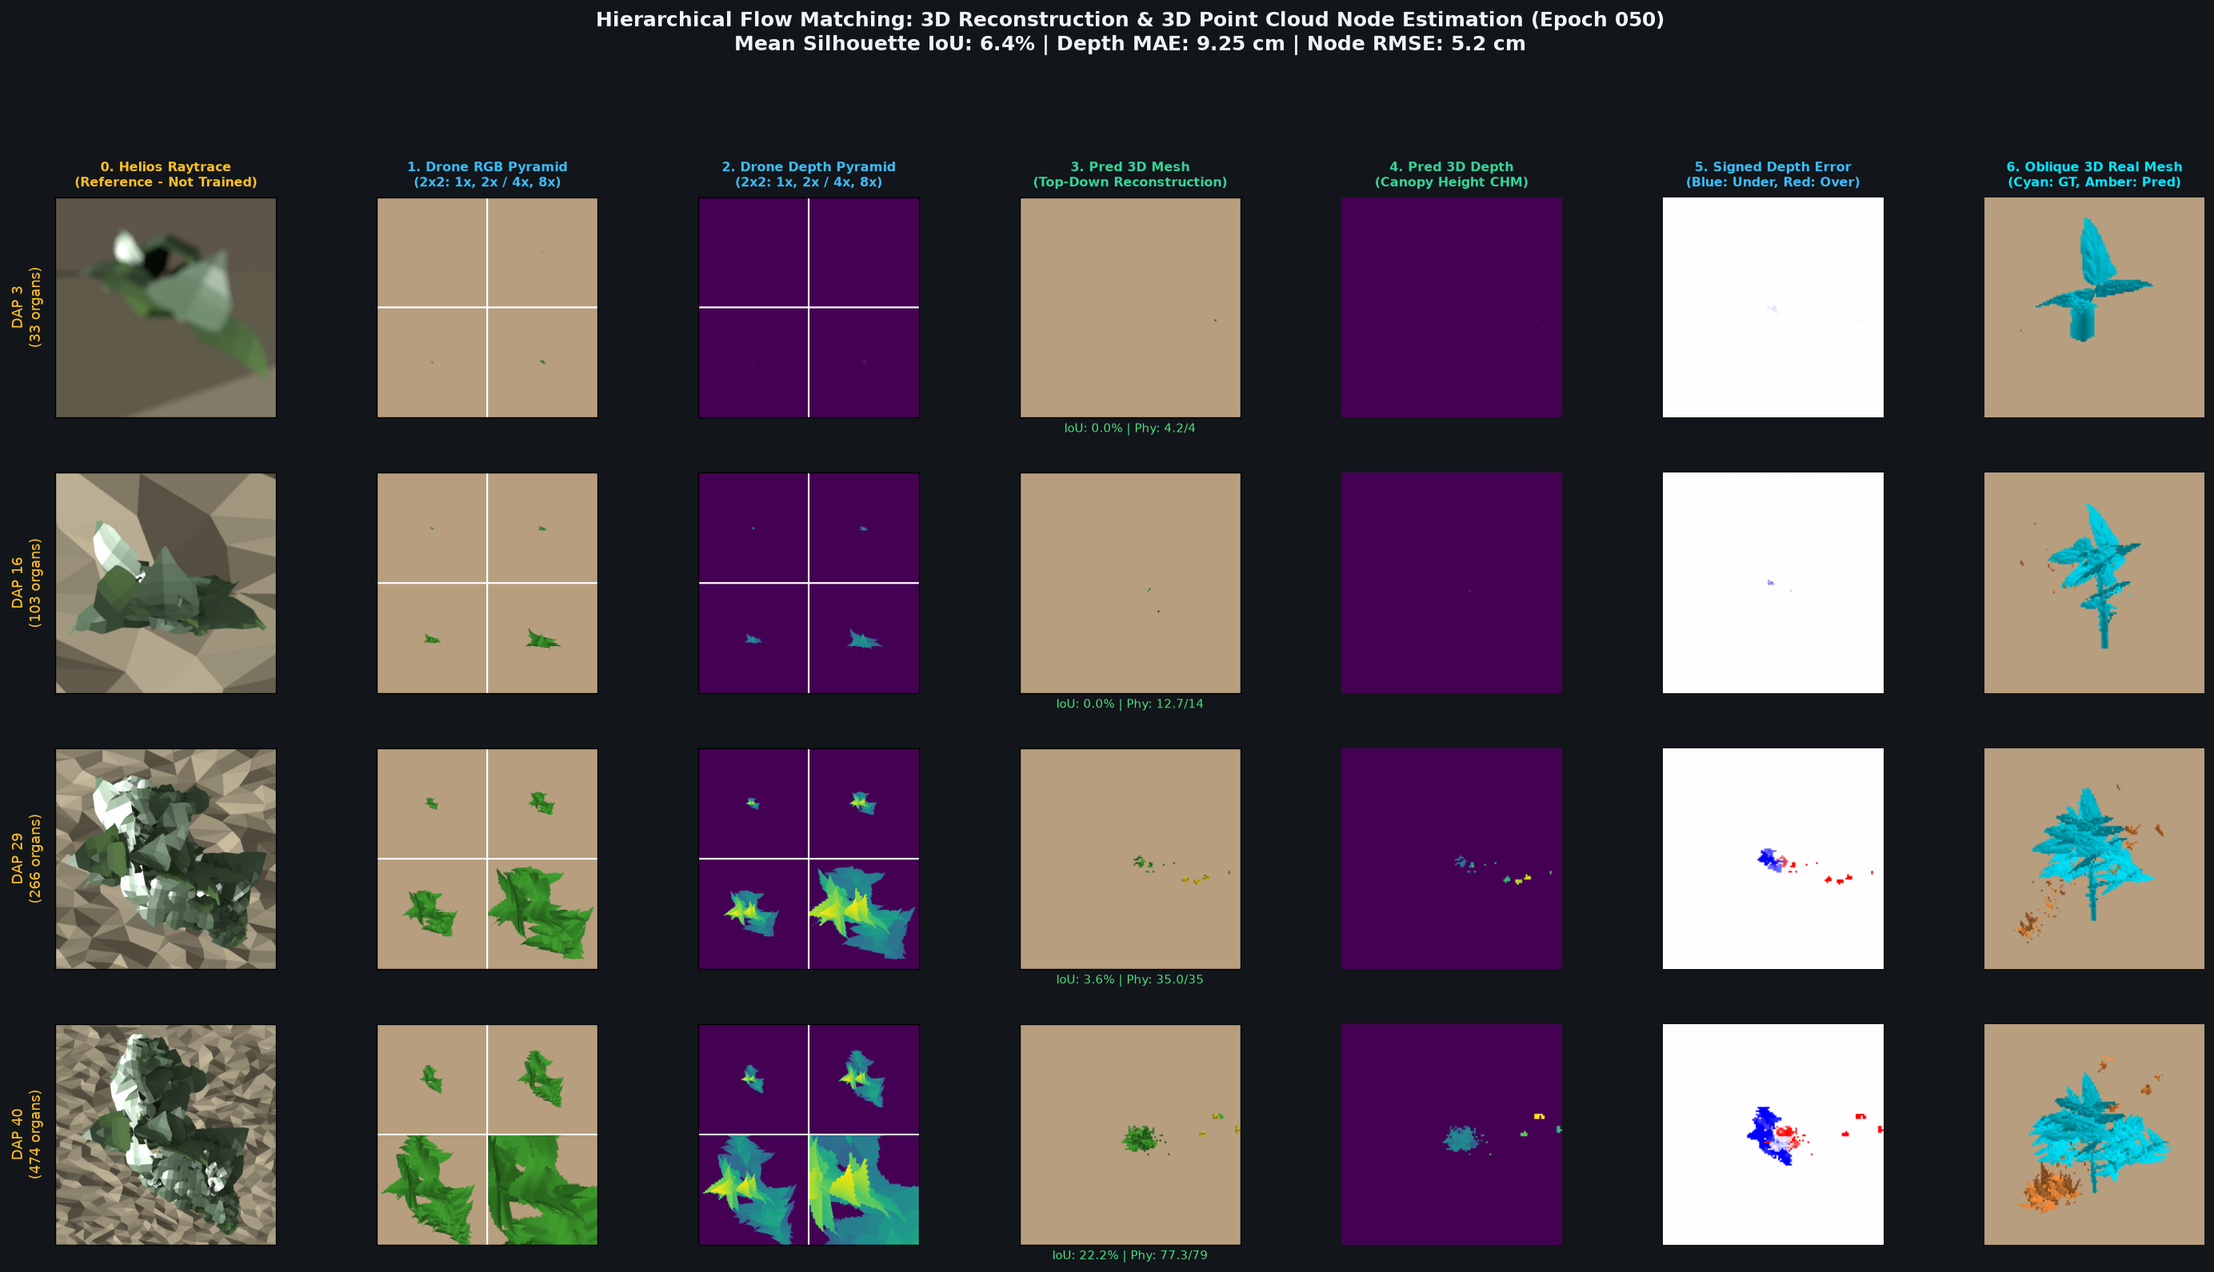
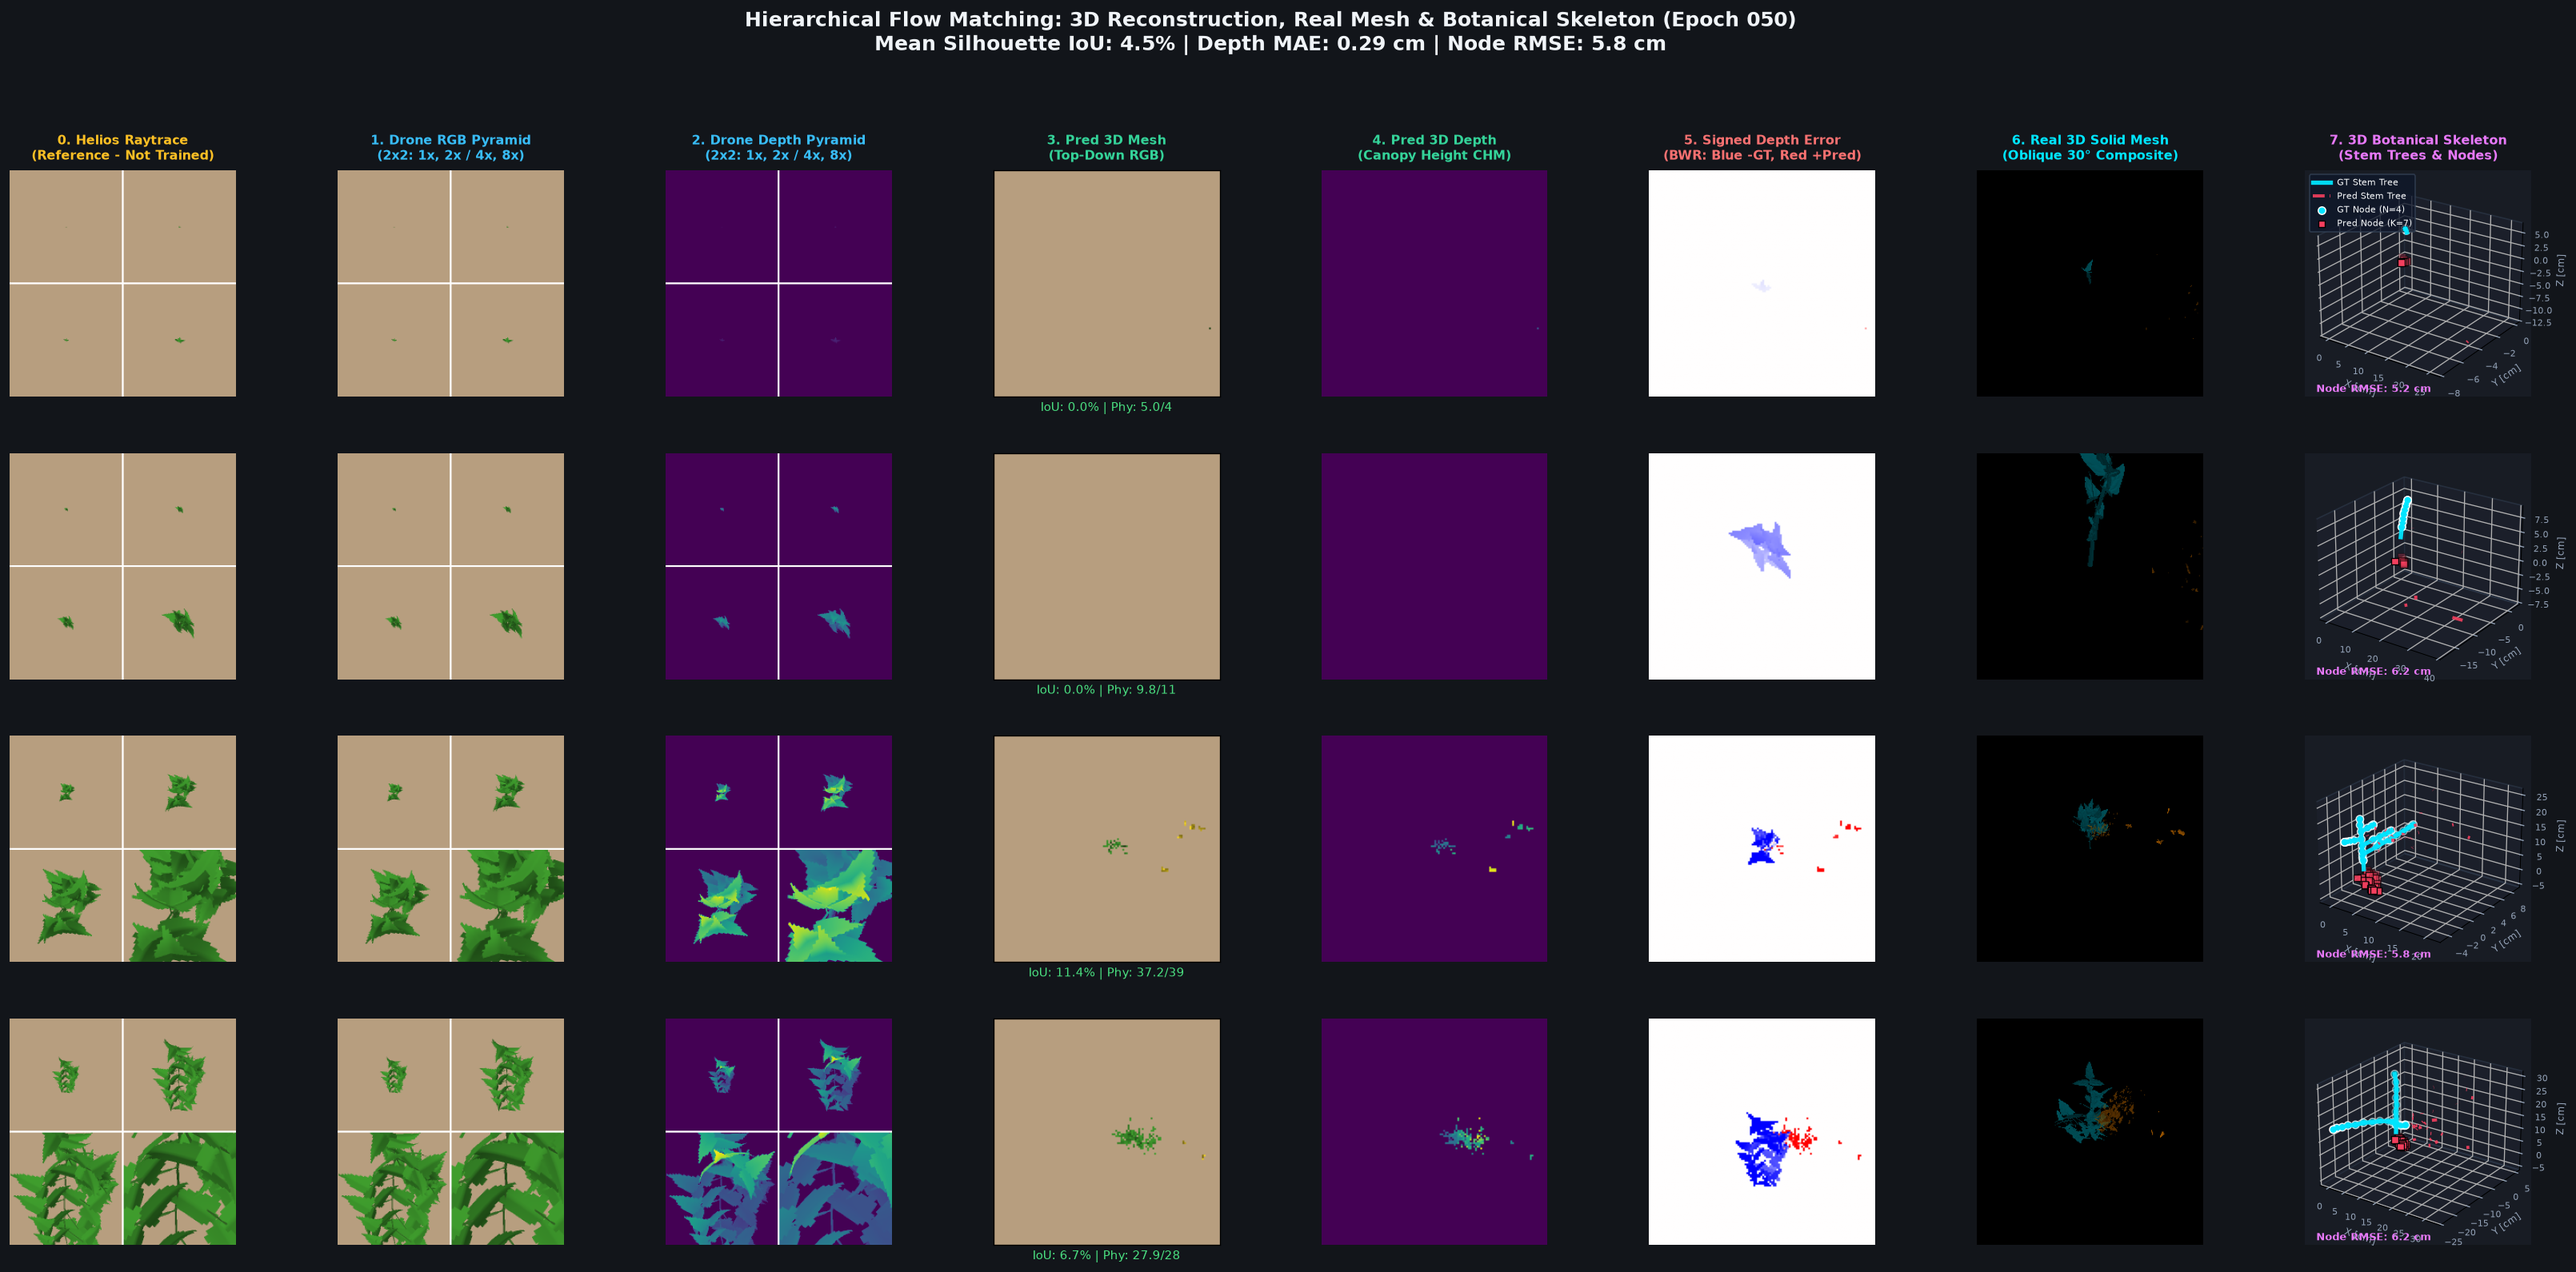
feat(eval): upgrade diagnostic panel to 8 columns combining Real 3D Solid Mesh (Col 6) and 3D Botanical Skeleton & Nodes (Col 7)

diff --git a/diffusion_based/eval/eval_hierarchical_self_consistency.py b/diffusion_based/eval/eval_hierarchical_self_consistency.py
@@ -440,15 +440,15 @@ def evaluate_self_consistency_batch(
             "comp_img": comp_img,
         })
 
-    # 6. Build Diagnostic Visualization Figure (7 Columns: Helios Ref + 2x2 RGB + 2x2 Depth + 3D Preds & Error + True 3D Point Cloud)
+    # 6. Build Diagnostic Visualization Figure (8 Columns: Ref + RGB + Depth + Pred RGB + Pred Depth + Depth Error + Real Solid Mesh + 3D Botanical Skeleton & Nodes)
     if panels_data:
         n_rows = len(panels_data)
-        fig = plt.figure(figsize=(24.5, 3.5 * n_rows), facecolor="#12151a")
-        gs = fig.add_gridspec(n_rows, 7, wspace=0.14, hspace=0.25, left=0.03, right=0.97, top=0.82, bottom=0.04)
+        fig = plt.figure(figsize=(28.0, 3.5 * n_rows), facecolor="#12151a")
+        gs = fig.add_gridspec(n_rows, 8, wspace=0.15, hspace=0.25, left=0.02, right=0.98, top=0.84, bottom=0.04)
 
         mean_node_rmse = np.mean([d["node_rmse_cm"] for d in panels_data])
         fig.suptitle(
-            f"Hierarchical Flow Matching: 3D Reconstruction & 3D Point Cloud Node Estimation (Epoch {epoch:03d})\n"
+            f"Hierarchical Flow Matching: 3D Reconstruction, Real Mesh & Botanical Skeleton (Epoch {epoch:03d})\n"
             f"Mean Silhouette IoU: {np.mean(ious)*100:.1f}% | Depth MAE: {np.mean(depth_maes)*100:.2f} cm | Node RMSE: {mean_node_rmse:.1f} cm",
             fontsize=15, fontweight="bold", color="#f0f4f8", y=0.96
         )
@@ -460,13 +460,14 @@ def evaluate_self_consistency_batch(
             "3. Pred 3D Mesh\n(Top-Down Reconstruction)",
             "4. Pred 3D Depth\n(Canopy Height CHM)",
             "5. Signed Depth Error\n(Blue: Under, Red: Over)",
-            "6. Oblique 3D Real Mesh\n(Cyan: GT, Amber: Pred)",
+            "6. Real 3D Solid Mesh\n(Oblique 30° Composite)",
+            "7. 3D Botanical Skeleton\n(Stem Trees & Nodes)",
         ]
 
         for row_idx, data in enumerate(panels_data):
             vmax_d = max(0.3, float(data["gt_3d_depth"].max()))
 
-            # Create 2D subplots for all 7 Columns (0 to 6)
+            # Create 2D subplots for Columns 0 to 6
             axes_row = []
             for col_idx in range(7):
                 ax = fig.add_subplot(gs[row_idx, col_idx])
@@ -516,11 +517,57 @@ def evaluate_self_consistency_batch(
             # Col 6: Oblique 3D Real Mesh Composite (Cyan: GT, Amber: Pred, Blend: Overlap)
             if data.get("comp_img") is not None:
                 axes_row[6].imshow(data["comp_img"])
-                rmse_str = f" | RMSE: {data['node_rmse_cm']:.1f} cm" if data.get("node_rmse_cm") else ""
-                axes_row[6].set_xlabel(f"Real 3D Mesh{rmse_str}\n(Cyan: GT, Amber: Pred)", fontsize=8.5, color="#00e5ff")
+                axes_row[6].set_xlabel("Real 3D Mesh Composite\n(Cyan: GT, Amber: Pred)", fontsize=8.5, color="#00e5ff")
             else:
                 axes_row[6].text(0.5, 0.5, "Mesh N/A", color="#94a3b8", ha="center", va="center")
             axes_row[6].axis("off")
+
+            # Col 7: 3D Botanical Skeleton & Nodes (Matplotlib 3D)
+            ax7 = fig.add_subplot(gs[row_idx, 7], projection="3d")
+            ax7.set_facecolor("#181c24")
+            ax7.view_init(elev=24, azim=-55)
+            if row_idx == 0:
+                ax7.set_title(col_titles[7], fontsize=9.5, fontweight="bold", color="#e879f9", pad=8)
+
+            # Draw GT stem segments (internode tubes)
+            gt_segs = data.get("gt_stem_segments", [])
+            for i, (b_pos, tp_pos) in enumerate(gt_segs):
+                lbl = "GT Stem Tree" if i == 0 else ""
+                ax7.plot([b_pos[0], tp_pos[0]], [b_pos[1], tp_pos[1]], [b_pos[2], tp_pos[2]],
+                         color="#00e5ff", linestyle="-", linewidth=3.2, alpha=0.95, zorder=10, label=lbl)
+
+            # Draw Pred stem segments (internode tubes)
+            pred_segs = data.get("pred_stem_segments", [])
+            for i, (b_pos, tp_pos) in enumerate(pred_segs):
+                lbl = "Pred Stem Tree" if i == 0 else ""
+                ax7.plot([b_pos[0], tp_pos[0]], [b_pos[1], tp_pos[1]], [b_pos[2], tp_pos[2]],
+                         color="#f43f5e", linestyle="--", linewidth=2.4, alpha=0.90, zorder=11, label=lbl)
+
+            # Draw GT Nodes
+            if len(data["gt_nodes"]) > 0:
+                ax7.scatter(data["gt_nodes"][:, 0] * 100, data["gt_nodes"][:, 1] * 100, data["gt_nodes"][:, 2] * 100,
+                            c="#00e5ff", s=32, edgecolors="white", linewidth=0.9, zorder=12,
+                            label=f"GT Node (N={len(data['gt_nodes'])})")
+
+            # Draw Pred Nodes
+            if len(data["pred_nodes"]) > 0:
+                ax7.scatter(data["pred_nodes"][:, 0] * 100, data["pred_nodes"][:, 1] * 100, data["pred_nodes"][:, 2] * 100,
+                            c="#f43f5e", marker="s", s=28, edgecolors="black", linewidth=0.8, zorder=13,
+                            label=f"Pred Node (K={len(data['pred_nodes'])})")
+
+            ax7.tick_params(colors="#94a3b8", labelsize=6.5, pad=0.5)
+            for pane in [ax7.xaxis.pane, ax7.yaxis.pane, ax7.zaxis.pane]:
+                pane.set_facecolor("#1e2330")
+                pane.set_edgecolor("#334155")
+
+            ax7.set_xlabel("X [cm]", fontsize=7, color="#94a3b8", labelpad=-3)
+            ax7.set_ylabel("Y [cm]", fontsize=7, color="#94a3b8", labelpad=-3)
+            ax7.set_zlabel("Z [cm]", fontsize=7, color="#94a3b8", labelpad=-3)
+
+            rmse_str = f"Node RMSE: {data['node_rmse_cm']:.1f} cm"
+            ax7.text2D(0.05, 0.88, rmse_str, transform=ax7.transAxes, color="#e879f9", fontsize=8, fontweight="bold")
+            if row_idx == 0:
+                ax7.legend(loc="upper right", fontsize=6.0, facecolor="#0f172a", edgecolor="#334155", labelcolor="#f8fafc", framealpha=0.8)
 
         panel_path = os.path.join(output_dir, f"hierarchical_self_consistency_epoch_{epoch:03d}.png")
         fig.savefig(panel_path, dpi=120, bbox_inches="tight", facecolor=fig.get_facecolor())
